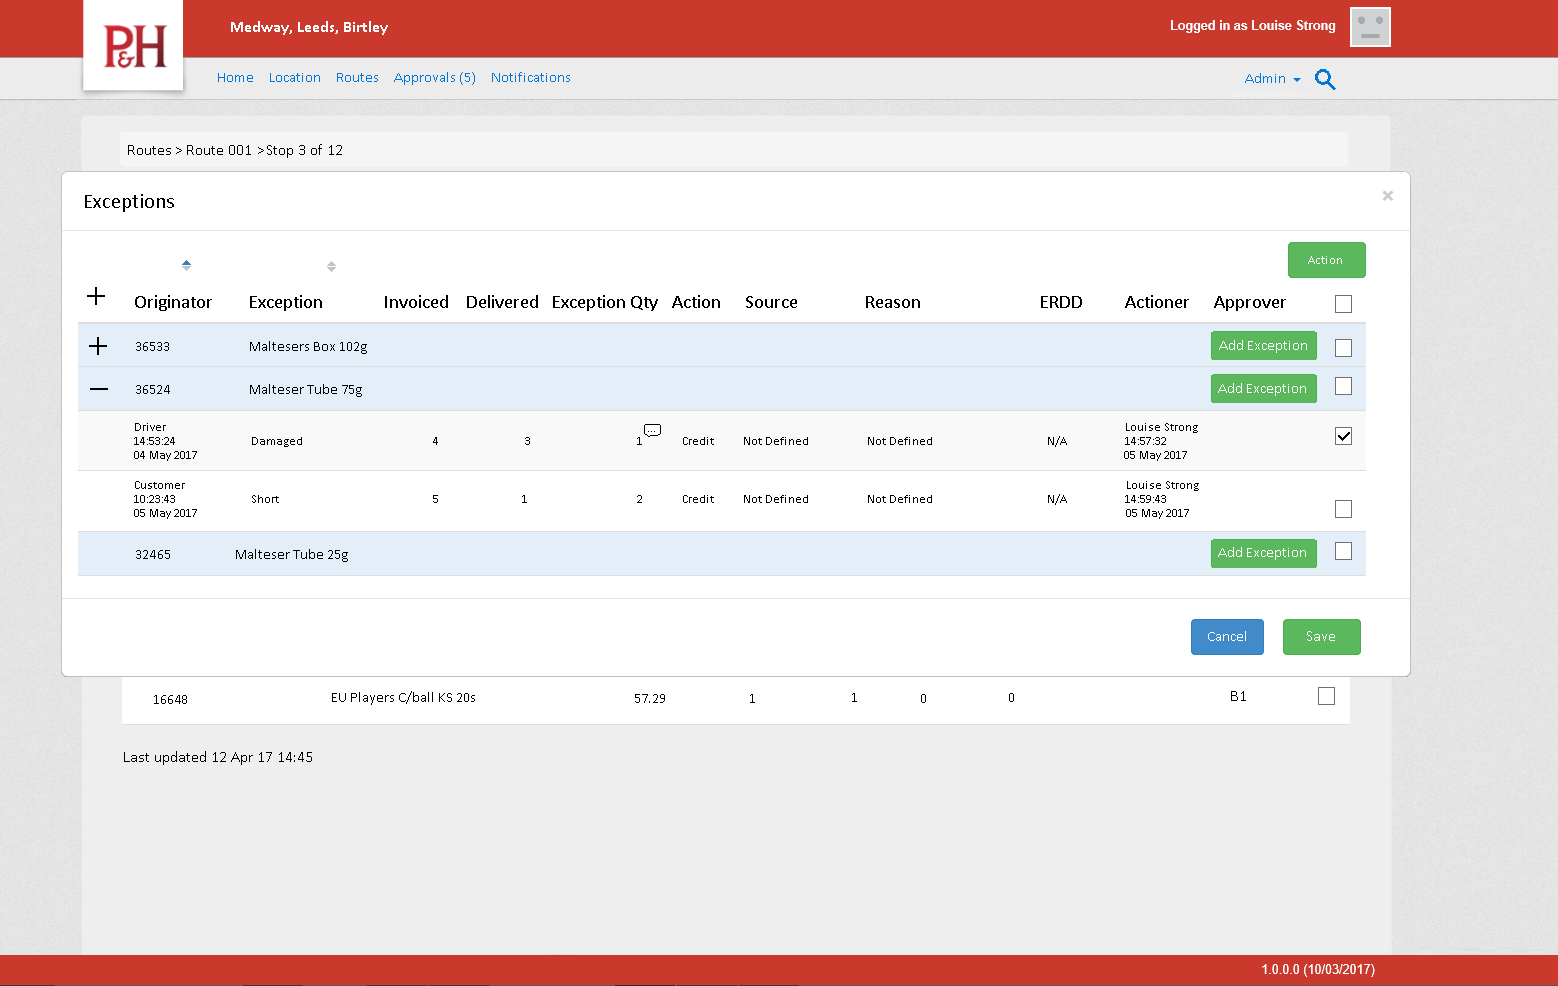
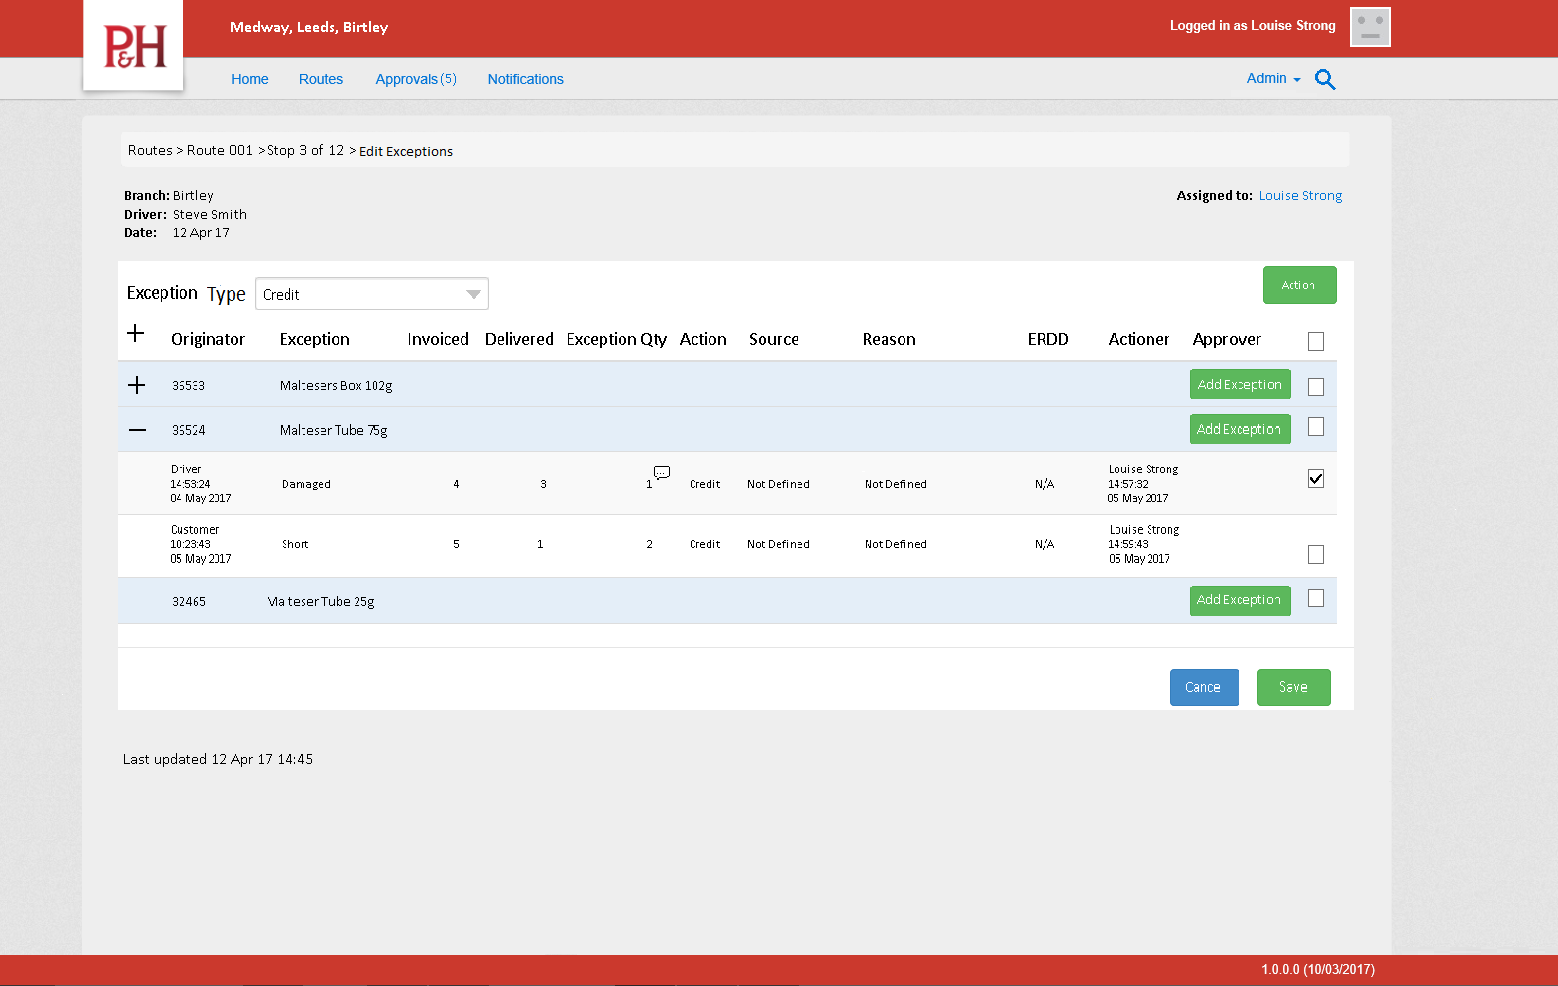
edit line exceptions work in progress

diff --git a/src/1. Layers/1.1 Presentation/Well.Dashboard/app/exceptions/editExceptionsComponent.html b/src/1. Layers/1.1 Presentation/Well.Dashboard/app/exceptions/editExceptionsComponent.html
@@ -1,0 +1,69 @@
+<div class="row">
+    <div class="col-lg-4">
+        <label for="filterException">Exception Type</label>
+    </div>
+    <div class="col-lg-4">
+        <select class="form-control" [ngModel]="selectedValue" id="filterException">
+            <option *ngFor="let e of exceptionTypes" [ngValue]="e">{{e}}</option>
+        </select>
+    </div>
+    <div class="col-lg-4">
+        <div class="pull-right">
+            <div class="btn-group" role="group">
+                <button type="button" class="btn btn-primary dropdown-toggle" data-toggle="dropdown" aria-haspopup="true" aria-expanded="false">
+                    Action
+                    <span class="caret"></span>
+                </button>
+                <ul class="dropdown-menu">
+                    <li><a href="#">Stop Replaning</a></li>
+                    <li><a href="#">Dropdown link</a></li>
+                </ul>
+            </div>
+        </div>
+    </div>
+</div>
+<div class="row">
+    <div class="col-lg-12">
+        <p-dataTable [value]="source" groupField="product" expandableRowGroups="rowspan"
+                     sortField="product" [sortableRowGroup]="false"
+                     rowGroupMode="subheader" #dt>
+            <ng-template pTemplate="rowgroupheader" let-rowData>
+            </ng-template>
+            <p-column header="" field="" [filter]="false" [sortable]="false" [style]="{'width':'3%'}"></p-column>
+            <p-column header="Originator" field="originator"></p-column>
+            <p-column header="Exception" field="exception"></p-column>
+            <p-column header="Invoiced" field="invoiced"></p-column>
+            <p-column header="Delivered" field="delivered"></p-column>
+            <p-column header="Quantity" field="quantity">
+                <ng-template let-data="rowData" pTemplate="body">
+                    <span>{{ data.barCode }}</span>
+                    <span class="glyphicon glyphicon-comment">
+                        <a href="#" data-toggle="tooltip" title="{{data.comments}}"></a>
+                    </span>
+                </ng-template>
+            </p-column>
+            <p-column header="Action" field="action"></p-column>
+            <p-column header="source" field="source"></p-column>
+            <p-column header="Reason" field="reason"></p-column>
+            <p-column header="" field="erdd">
+                <ng-template pTemplate="header">
+                    <span>Product</span>
+                    <span class="glyphicon glyphicon-info-sign">
+                        <a href="#" data-toggle="tooltip" title="Earliest Requested Delivery Date"></a>
+                    </span>
+                </ng-template>
+            </p-column>
+            <p-column header="Actioned By" field="actionedBy"></p-column>
+            <p-column header="Approve By" field="approveBy"></p-column>
+            <p-column [style]="{'width':'38px'}" field="selected" selectionMode="multiple"></p-column>
+        </p-dataTable>
+    </div>
+</div>
+<div class="row">
+    <div class="col-lg-12">
+        <div class="pull-right">
+            <button class="btn btn-success" type="button">Cancel</button>&nbsp;&nbsp;
+            <button class="btn btn-primary" type="submit">Save</button>
+        </div>
+    </div>
+</div>

diff --git a/src/1. Layers/1.1 Presentation/Well.Dashboard/app/appModule.ts b/src/1. Layers/1.1 Presentation/Well.Dashboard/app/appModule.ts
@@ -94,6 +94,7 @@ import { SingleRouteComponent } from './routes/singleRouteComponent';
 import AppRoutes = require('./appRoutes');
 import {StopComponent} from './stops/stopComponent';
 import { SelectYeNoFilterComponent } from './shared/selectYeNoFilterComponent';
+import {EditExceptionsComponent} from './exceptions/editExceptionsComponent';
 
 @NgModule({
     declarations: [LoadingComponent,
@@ -108,7 +109,8 @@ import { SelectYeNoFilterComponent } from './shared/selectYeNoFilterComponent';
         ResolvedDeliveryComponent, RoutesComponent, SingleRouteComponent, UserPreferenceComponent, WidgetComponent,
         AppComponent, OrderArrowComponent, UnauthorisedComponent, NotificationModalComponent, UserThresholdComponent, UserThresholdLevelComponent,
         WidgetWarningsViewComponent, WidgetWarningAddModalComponent, WidgetWarningRemoveModalComponent, WidgetWarningEditModalComponent,
-        AccountFlagsComponent, ExceptionsConfirmModal, BulkCreditConfirmModal, DateComponent, SplitButtonComponent, StopComponent, SelectYeNoFilterComponent
+        AccountFlagsComponent, ExceptionsConfirmModal, BulkCreditConfirmModal, DateComponent, SplitButtonComponent, StopComponent, SelectYeNoFilterComponent,
+        EditExceptionsComponent
     ],
     imports: [
         ChartsModule, ToasterModule, BrowserModule, FormsModule, HttpModule, RouterModule, TabsModule, routing, Ng2PaginationModule, CalendarModule,

diff --git a/src/1. Layers/1.1 Presentation/Well.Dashboard/app/exceptions/editExceptionsService.ts b/src/1. Layers/1.1 Presentation/Well.Dashboard/app/exceptions/editExceptionsService.ts
@@ -1,0 +1,30 @@
+import { Injectable }               from '@angular/core';
+import { Response }                 from '@angular/http';
+import { GlobalSettingsService }    from '../shared/globalSettings';
+import { HttpErrorService }         from '../shared/httpErrorService';
+import { HttpService }              from '../shared/httpService';
+import { Observable }               from 'rxjs';
+import { IEditLineItemException }   from './editLineItemException';
+import * as _                       from 'lodash';
+import 'rxjs/add/operator/map';
+
+@Injectable()
+export class EditExceptionService
+{
+    constructor(
+        private http: HttpService,
+        private globalSettingsService: GlobalSettingsService,
+        private httpErrorService: HttpErrorService) {}
+
+    public get(ids: Array<number>): Observable<Array<IEditLineItemException>> {
+
+        const params: URLSearchParams = new URLSearchParams();
+        const url = this.globalSettingsService.globalSettings.apiUrl + 'Exception/PerLineItem';
+
+        _.each(ids, (current: number) => params.set('id', current.toString()));
+
+        return this.http.get(url, {search: params})
+            .map((response: Response) => <IEditLineItemException>response.json())
+            .catch(e => this.httpErrorService.handleError(e));
+    }
+}

diff --git a/src/1. Layers/1.1 Presentation/Well.Dashboard/app/exceptions/editExceptionsComponent.ts b/src/1. Layers/1.1 Presentation/Well.Dashboard/app/exceptions/editExceptionsComponent.ts
@@ -1,0 +1,31 @@
+import { Component, Input }         from '@angular/core';
+import { IObservableAlive }         from '../shared/IObservableAlive';
+import { EditExceptionService }     from './editExceptionsService';
+import { IEditLineItemException }   from './editLineItemException';
+import 'rxjs/add/operator/mergeMap';
+
+@Component({
+    selector: 'ow-editExceptions',
+    templateUrl: './app/routes/singleRouteComponent.html',
+    providers: [EditExceptionService]
+})
+export class EditExceptionsComponent implements IObservableAlive
+{
+    public isAlive: boolean = true;
+    public source: Array<IEditLineItemException>;
+    @Input() public ids: Array<number>;
+
+    constructor(private editExceptionService: EditExceptionService) {}
+
+    public ngOnInit()
+    {
+        this.editExceptionService.get(this.ids)
+            .takeWhile(() => this.isAlive)
+            .subscribe((values: Array<IEditLineItemException>) => this.source = values);
+    }
+
+    public ngOnDestroy(): void
+    {
+        this.isAlive = false;
+    }
+}

diff --git a/src/1. Layers/1.1 Presentation/Well.Dashboard/app/stops/stopComponent.html b/src/1. Layers/1.1 Presentation/Well.Dashboard/app/stops/stopComponent.html
@@ -56,7 +56,7 @@
                 <div class="col-md-12 clearfix">
                     <p-dataTable [value]="stopsItems" groupField="jobId" expandableRowGroups="rowspan"
                                  sortField="jobId" [sortableRowGroup]="false"
-                                 rowGroupMode="subheader" #dt [rows]="100" [paginator]="true" [rowsPerPageOptions]="[10,20,30,40,50,60,70,80,90,100]">
+                                 rowGroupMode="subheader" #dt>
                         <p-header>Expand a Job to see more details</p-header>
                         <ng-template pTemplate="rowgroupheader" let-rowData>
                             <div class="groupRow">

diff --git a/src/1. Layers/1.1 Presentation/Well.Dashboard/app/exceptions/editLineItemException.ts b/src/1. Layers/1.1 Presentation/Well.Dashboard/app/exceptions/editLineItemException.ts
@@ -1,0 +1,18 @@
+export interface IEditLineItemException
+{
+    id: number;
+    productNumber: string;
+    product: string;
+    originator: string;
+    exception: string;
+    invoiced?: number;
+    delivered?: number;
+    quantity: number;
+    action: string;
+    source: string;
+    reason: string;
+    erdd?: Date;
+    actionedBy: string;
+    approvedBy: string;
+    comments: Array<string>;
+}

diff --git a/src/1. Layers/1.1 Presentation/Well.Api/Controllers/ExceptionController.cs b/src/1. Layers/1.1 Presentation/Well.Api/Controllers/ExceptionController.cs
@@ -1,0 +1,44 @@
+using System;
+using System.Collections.Generic;
+using System.Web.Http;
+
+namespace PH.Well.Api.Controllers
+{
+    public class ExceptionController : ApiController
+    {
+        public IList<EditLineItemException> PerLineItem([FromUri]int[] id)
+        {
+            var result = new List<EditLineItemException>
+            {
+                new EditLineItemException { Id = 1, Originator = "Driver", ProductNumber = "65651", Product = "Snickers", Exception = "Damaged", Invoiced = 2, Delivered = 2, Quantity = 10, Action = "Redeliver", Source = null, Reason = null, Erdd = DateTime.Now.AddDays(2), ActionedBy = "Me", ApprovedBy = "No One" },
+                new EditLineItemException { Id = 1, Originator = "Client", ProductNumber = "65651", Product = "Snickers", Exception = "Short",   Invoiced = 0, Delivered = 2, Quantity = 33, Action = "Credit",    Source = null, Reason = null, Erdd = null,                    ActionedBy = "Me", ApprovedBy = "No One" },
+                new EditLineItemException
+                {
+                    Id = 2, Originator = "Client", ProductNumber = "11114", Product = "Mars", Exception = "Short", Invoiced = 0, Delivered = 2, Quantity = 33, Action = "Credit", Source = null, Reason = null, Erdd = null, ActionedBy = "Me", ApprovedBy = "No One",
+                    Comments = new List<string> { "Change 1 ", "Change 2"}
+                }
+            };
+
+            return result;
+        }
+    }
+
+    public class EditLineItemException
+    {
+        public int Id { get; set; }
+        public string ProductNumber { get; set; }
+        public string Product { get; set; }
+        public string Originator { get; set; }
+        public string Exception { get; set; }
+        public int? Invoiced { get; set; }
+        public int? Delivered { get; set; }
+        public int Quantity { get; set; }
+        public string Action { get; set; }
+        public string Source { get; set; }
+        public string Reason { get; set; }
+        public DateTime? Erdd { get; set; }
+        public string ActionedBy { get; set; }
+        public string ApprovedBy { get; set; }
+        public IList<string> Comments { get; set; }
+    }
+}
